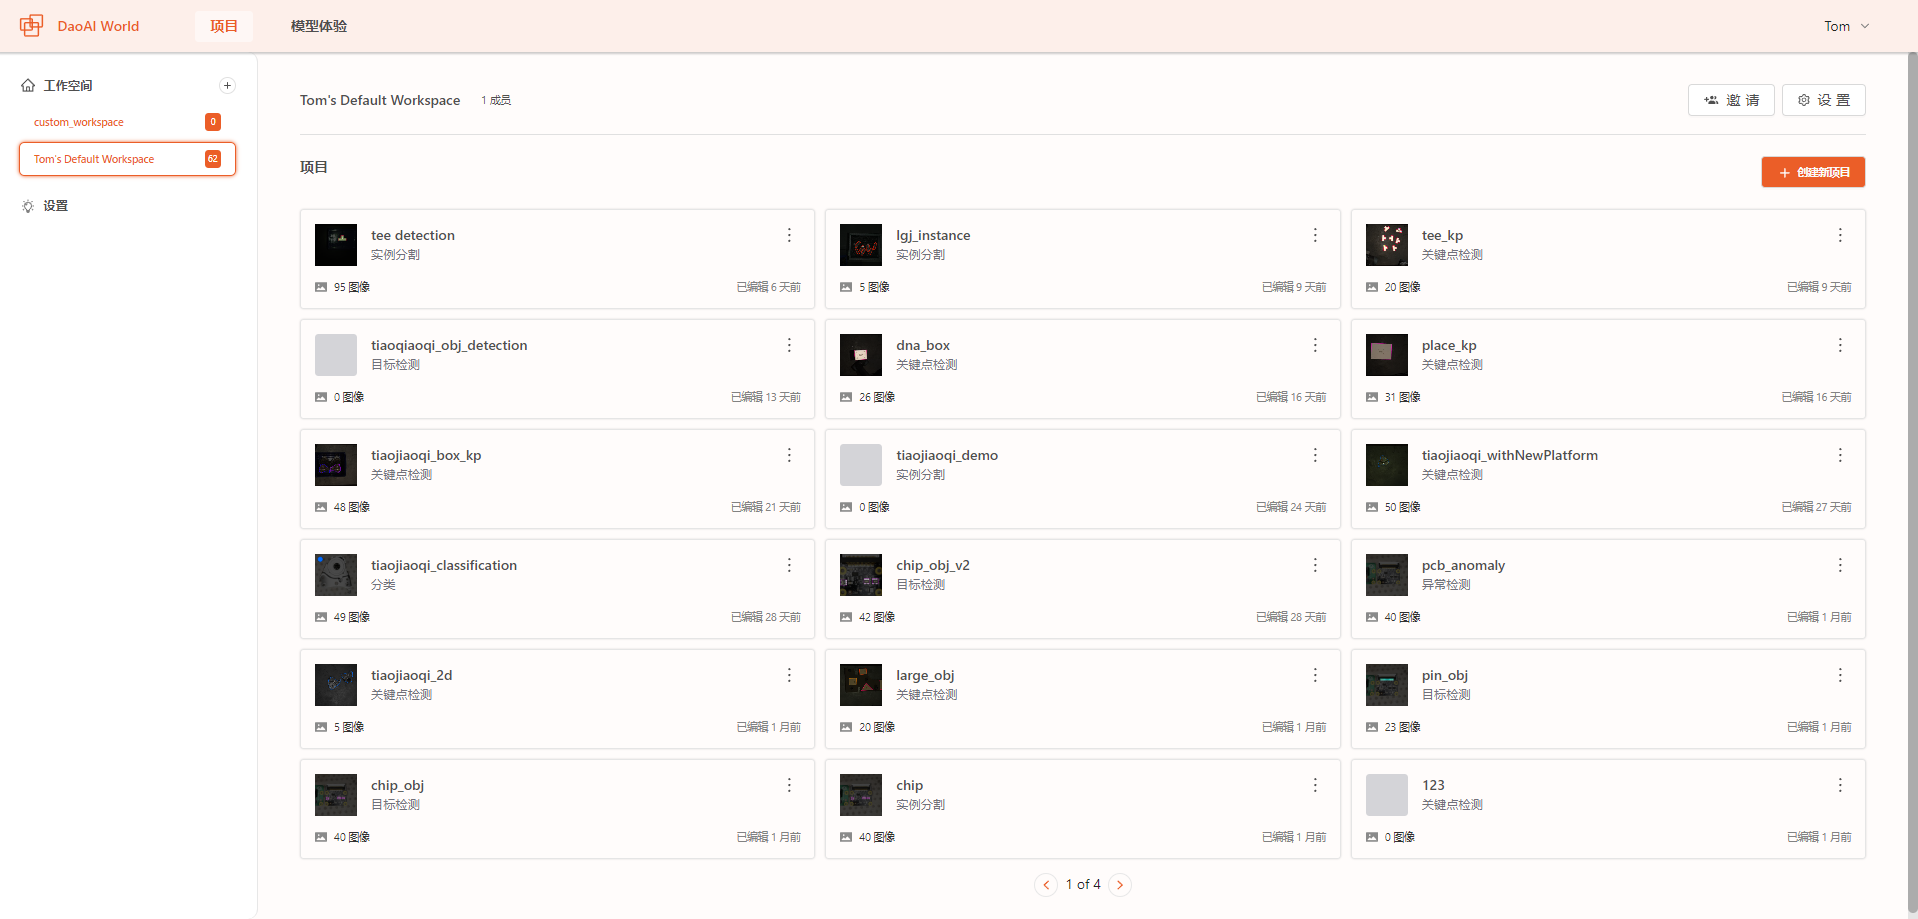
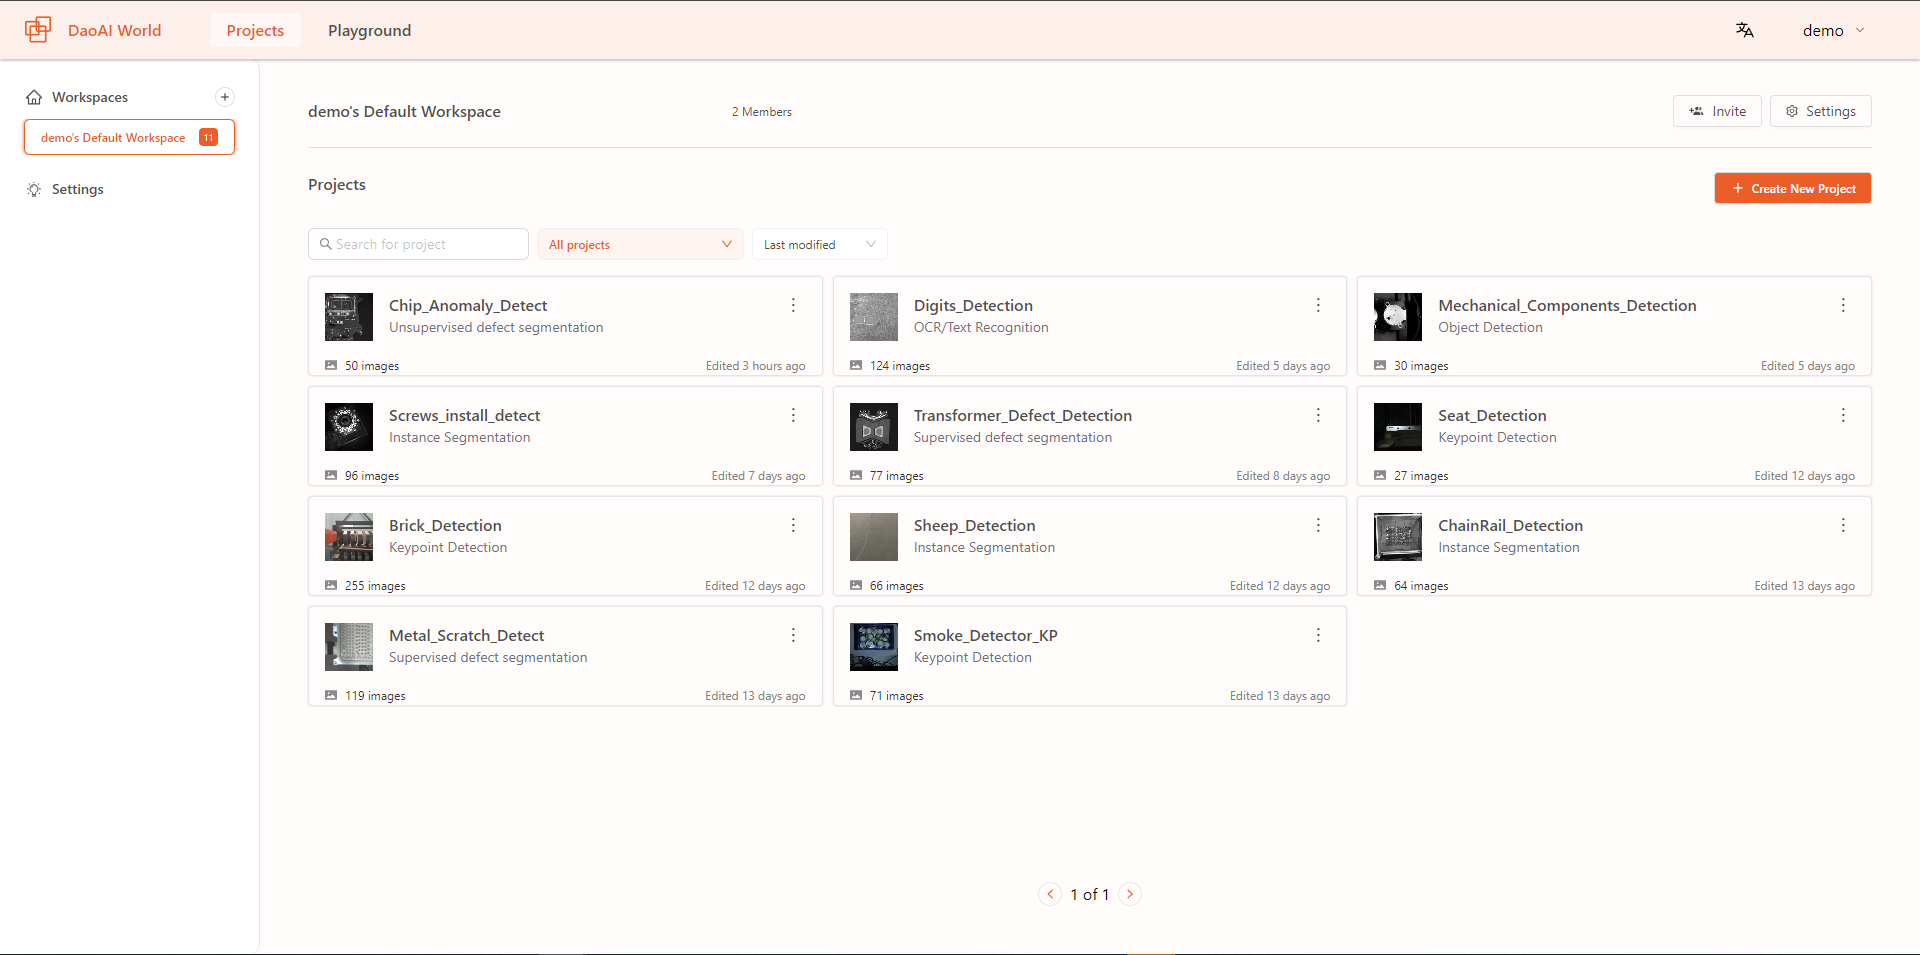
update

diff --git a/docs/source/conf.py b/docs/source/conf.py
@@ -2,7 +2,7 @@
 
 # -- Project information
 
-project = 'DaoAI World用户手册'
+project = 'DaoAI World User Manual'
 copyright = '2021-2024 DaoAI Robotics Inc.'
 author = 'DaoAI'
 
@@ -40,8 +40,8 @@ templates_path = ['_templates']
 html_static_path = ['_static']
 
 # -- Options for HTML output
-language = 'zh_CN'
-html_search_language = 'zh'
+language = 'EN'
+html_search_language = 'en'
 
 html_theme = 'sphinx_rtd_theme'
 

diff --git a/docs/source/introduce/quick_start/index.rst b/docs/source/introduce/quick_start/index.rst
@@ -1,9 +1,12 @@
-快速开始
+Quick Start
 =================
 
 .. tabs::
-    DaoAI World能够充分满足您将图像转化为信息的需求，我们提供了全流程的计算机视觉工具，能让您实现端到端从数据标注到模型训练再到模型部署的一站式服务，
-    即使您不是一个机器学习专家，您也能快速上手并掌握。(如果您是这方面的专家，DaoAI World也能更好的帮助您完成工作)
+    DaoAI World is designed to seamlessly interpret images into valuable information, offering a comprehensive suite of computer vision tools. |br|
+    From data annotation to model training and deployment, 
+    our platform provides an end-to-end solution that enables you to accomplish your goals efficiently. |br|
+    Whether you're new to machine learning or an experienced professional, 
+    DaoAI World makes it easy to get started, ensuring you can quickly master the platform. 
 
 |
 
@@ -18,25 +21,28 @@
 |
 
 
-在本指南中我们将训练一个关键点检测模型来识别门把手的外轮廓以及他们的正反和相应的关键点。您可以使用本节的教程快速上手DaoAI World并通过此项目学习到
-的知识应用与其他项目上。
+In this guide, we will train a keypoint detection model to identify the outer contour of door handles, their orientation (front or back), and corresponding keypoints. 
+This tutorial will help you quickly get started with DaoAI World, and the knowledge gained from this project can also be applied to other tasks.
 
 
-选择语言
-----------------
+Select Language
+---------------------
 
-打开DaoAI World主页后，在右上角可以选择语言，支持中文和英文。
+After opening the DaoAI World homepage, you can select your preferred language from the top-right corner, with options available in both Chinese and English.
 
     .. image:: images/signin_screen.png
         :width: 800
         :align: center
 
 
-注册和登录
+Login/Register
 ---------------------
 
-DaoAI World拥有用户管理功能，每个用户的工作区都是独立的，这样在保证用户数据安全的前提下还能防止项目混乱。如果您还没有DaoAI World账户可以点击“注册”
-选项，注册一个新的账户。如果您已经有了DaoAI World账户，请忽略“注册”选项直接选择“登录”选项，登录您所要登录的账户。
+DaoAI World includes a user management feature, where each user has their own independent workspace. 
+This ensures data security and prevents project mix-ups. 
+
+If you don’t have a DaoAI World account yet, you can click the "Create one" option to create a new one. 
+If you already have an account, simply select "Login" to access your workspace.
 
 
     .. image:: images/signin_screen.png
@@ -44,15 +50,18 @@ DaoAI World拥有用户管理功能，每个用户的工作区都是独立的，
         :align: center
 
 
-创建项目
+Create a Project
 ---------------------
 
-当我们登录账户后，就可以看到我们的项目管理界面。每次当我们有一个计算机视觉任务的时候就可以通过创建项目去建立一个新的任务，每个项目之间是相互独立互不干扰
-的，同时还可以对每个项目进行重命名等操作，接下来让我们创建第一个项目吧。
+After logging into your account, you will see the project management page. 
+You can create a new task by setting up a new project. Each project operates independently, and you can rename each project as needed. 
 
     .. image:: images/create_project.png
         :width: 800
         :align: center
+
+Now, let's create our first project.
+
 
 在 **项目类型** 中选择想要创建的项目类型，这里我们以关键点检测项目为例，选择 **关键点检测** ,并添加项目名称，随后，点击 **创建项目** 。
 
@@ -210,3 +219,6 @@ DaoAI World支持上传单张图片(png, jpg, jpeg, bmp)、或者上传一整个
         :width: 800
         :align: center
 
+.. |br| raw:: html
+
+      <br>

diff --git a/docs/source/index.rst b/docs/source/index.rst
@@ -1,23 +1,23 @@
-DAOAI WORLD 用户手册
+DAOAI WORLD USER MANUAL
 ==============================
 
 
 .. toctree::
    :maxdepth: 2
-   :caption: 介绍
+   :caption: Introduction
 
    introduce/quick_start/index
    introduce/quick_start/release-notes
 
 .. toctree::
    :maxdepth: 2
-   :caption: 模型
+   :caption: Model
 
    model/model2
     
 .. toctree::
    :maxdepth: 2
-   :caption: 使用
+   :caption: Application
 
    introduce/quick_start/offline_setup
    data/workspace/index
@@ -30,20 +30,20 @@ DAOAI WORLD 用户手册
 
 .. toctree::
    :maxdepth: 2
-   :caption: 开发
+   :caption: Develop
 
    develop/index
 
 .. toctree::
    :maxdepth: 2
-   :caption: 案例分析
+   :caption: Case Study
 
    case_study/index
 
 
 .. toctree::
    :maxdepth: 1
-   :caption: 支持
+   :caption: Support
 
    support/FAQ/index.rst
 
